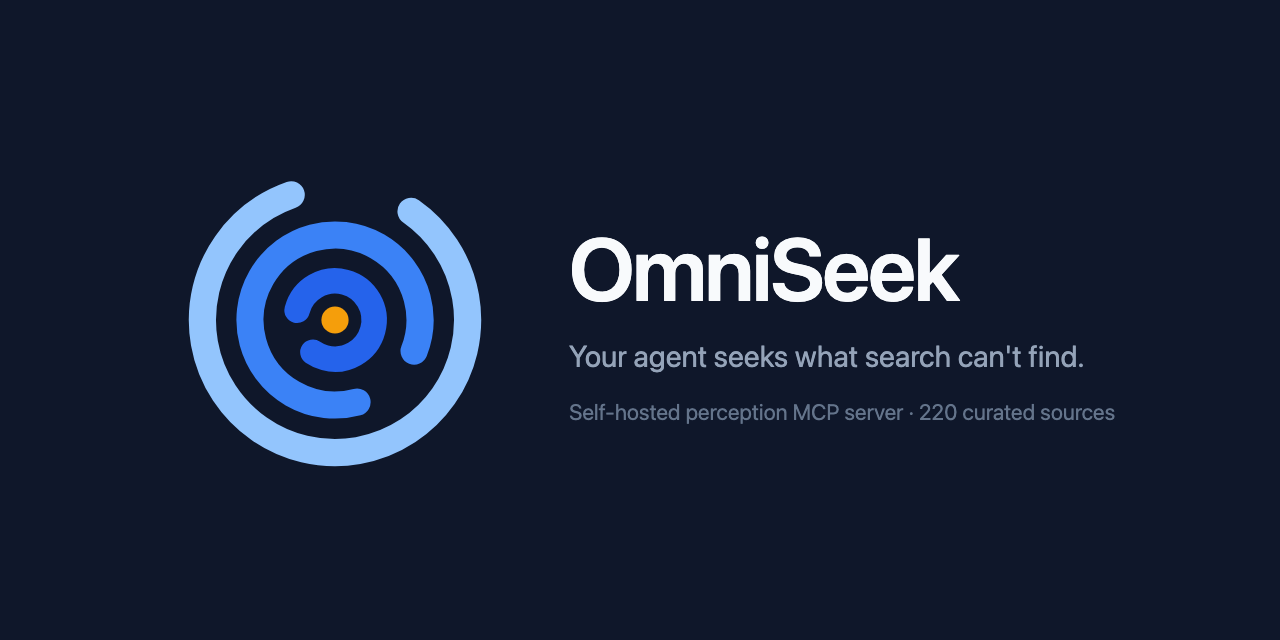
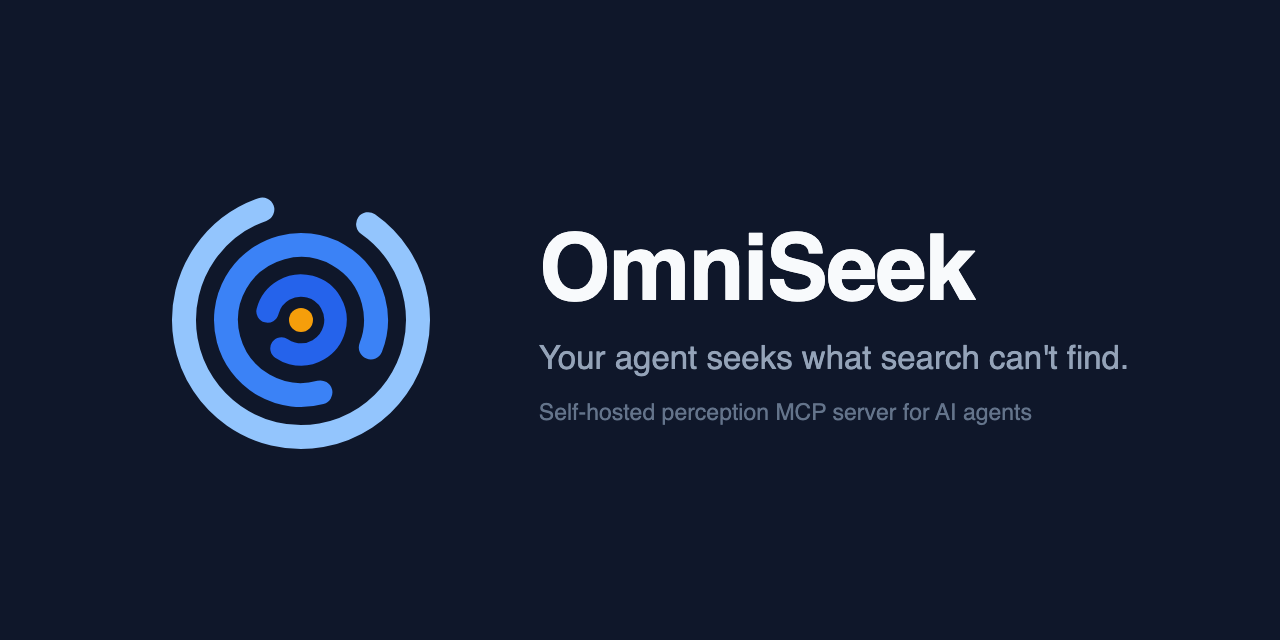
docs+assets: one real investigation everywhere, no literal source counts, decluttered root
The README demo card was a 1560x328 strip: at embed width its text was
unreadable, and its content (one search call) undersold the engine. It
is now a 760x652 card telling one REAL four-step investigation (search
-> the response's own excluded_relevant signpost -> walled drill ->
comment excavation -> vision on a post whose body lives in images),
every line quoted verbatim from a live session this same day.

docs/examples.md rebuilt around that same session: part 1 walks the
four walls (language, login, comment depth, pixels) with the actual
engagement numbers and two mermaid diagrams; part 2 covers hearing
(ASR, plus the honest empty-on-music case), people-mapping (Yejin
Choi's collaboration clusters; Yi R. Fung -> Heng Ji 54/93 joint works,
advisor inference from pure structure), watching (a sensor run live:
15 new -> 3 -> 0), and remembering (case study link).

Literal source counts are gone from every doc, asset, and both i18n
READMEs: the catalog grows and prunes through the curator pipeline, so
any hard number is born stale (the server already computes live counts
at startup). Prose now sells the mechanism.

Root decluttered: bootstrap.sh -> scripts/ (self-locating, runs from
any CWD), profile.example.json -> deploy/ (Dockerfile still lands it
at /app so the entrypoint is untouched); the shipped Claude Code skill
is now linked from the README instead of sitting undiscovered.

diff --git a/docs/examples.md b/docs/examples.md
@@ -1,94 +1,201 @@
 # Examples
 
-<sub>[OmniSeek](../README.md) · [Tools](tools.md) · [Configuration](configuration.md) · [FAQ](faq.md)</sub>
+<sub>[OmniSeek](../README.md)&nbsp;·&nbsp;[Tools](tools.md)&nbsp;·&nbsp;[Configuration](configuration.md)&nbsp;·&nbsp;[FAQ](faq.md)</sub>
 
-Five real queries, real outputs, from a live instance.
-
----
-
-## 1. One query, four kinds of sources
-
-```
-omniseek_search("is DeepSeek R1 actually open source")
-```
-
-Back came six results from four different worlds:
-
-- **Simon Willison's blog** broke down DeepSeek V4-Flash benchmarks vs pricing, with an Artificial Analysis scatter plot
-- **Two Bluesky posts** gave the practitioner take. Luke Steuber (90 likes): *"it's not actually open source ... Some folks built a decent equivalent with an open, ethical dataset."* Alexander Doria, more precisely: *"Open weights is probably the most straightforward. DeepSeek R1 meets [the Open Source Alliance definition] but not Llama."*
-- **Zvi on LessWrong** had a 78,000-character dissection of Kimi K3 that placed DeepSeek in the open-weights landscape
-- **Latent Space** covered the V4-Flash post-training update alongside their $70B pre-IPO fundraise
-- **GitHub Trending** surfaced an unofficial PyTorch reproduction
-
-One call. A technical blog, social-media debate with engagement numbers, a rationalist deep-dive, an industry newsletter, and a code repo. Google would have given you ten blue links to the same three news articles.
+Everything on this page came from one live OmniSeek instance and is quoted as returned: real queries, real outputs, real engagement numbers. Part 1 is a single session, shown in the order it happened.
 
 ---
 
-## 2. Same tool, Chinese
+## Part 1: one question, chased through four walls
+
+The agent gets a question any engineering team might ask this month:
+
+> *"Is Kimi K3 actually worth adopting for agentic coding?"*
+
+Plain search returns launch coverage and benchmark posts: the marketing surface. Between the agent and the real answer stand four walls: a **language** wall, a **login** wall, a **comment-depth** wall, and a **pixel** wall. Here is the same question with perception:
+
+```mermaid
+flowchart LR
+    Q(["Is Kimi K3 worth adopting<br/>for agentic coding?"]) --> S["1 · omniseek_search<br/>334 raw hits → 10 ranked,<br/>five kinds of source"]
+    S --> B["benchmarks · the paper<br/>· video in two languages"]
+    S -- "excluded_relevant:<br/>«xiaohongshu is login-walled;<br/>name it to drill»" --> D["2 · drill through the wall<br/>6 posts + engagement"]
+    D --> C["3 · omniseek_read<br/>62 comments → the fix<br/>nobody published"]
+    D --> V["4 · omniseek_view<br/>the post whose text<br/>lives in images"]
+    B --> A(["5 · a defensible answer,<br/>every line sourced"])
+    C --> A
+    V --> A
+```
+
+### 1. The sweep
 
 ```
-omniseek_search("大模型幻觉问题 最新解决方案")
+omniseek_search("Kimi K3 coding agent real-world experience")
 ```
 
-Three Bilibili videos came back, including one with 32,367 views and 76 comments: "什么是大模型幻觉？为什么会产生幻觉？" Each carries a `transcribable` flag, meaning you can pipe it straight to `omniseek_transcribe` and get the spoken content as text (see Example 4).
+One call fans out in parallel and deduplicates 334 raw hits into 10 ranked results, spanning five kinds of source at once:
 
-Also: two ByteDance Seed job postings. Their Dola team's JD says *"攻克模型幻觉问题，研究RAG检索增强生成与长文本处理技术"*. Job descriptions are often more honest than press releases about what a team is actually building.
+| World | What came back |
+|-------|----------------|
+| Benchmarks | together.ai ran 904 DeepSWE rollouts: GPT-5.6 Sol leads pass@1, K3 wins pass@4 at 2.8x the solves per dollar |
+| The paper | the Kimi K3 technical report on arXiv: 2.8T-parameter MoE, 104B activated, 1M-token context |
+| Video, Chinese | a hands-on Bilibili build tutorial, and GLM-5.3's counter-release twelve days later claiming the open-weights coding crown |
+| Video, English | two YouTube reviews asking "benchmark hype or real-world power?" |
+| Code | an unofficial PyTorch reproduction trending on GitHub |
+
+Note the query was English and half the best material is Chinese: the ranking is cross-lingual by default, so the agent never has to know which language the answer lives in.
+
+And then the part of the response that is not results. The sweep skips login-walled sources by default, and **says so, with the exact call to go deeper** (excerpt):
+
+```json
+{
+  "name": "xiaohongshu",
+  "reason": "login-walled (CDP browser, account-rate-sensitive)",
+  "why": "relevant but excluded; re-run naming it: sources=['xiaohongshu']"
+}
+```
+
+The response is a map, not just a list. The agent reads it and goes through the wall.
+
+### 2. Through the login wall
+
+```
+omniseek_search("Kimi K3", sources=["xiaohongshu"], raw=true)
+```
+
+This runs through the operator's own logged-in browser, on the operator's machine (the walled tier is **off** until you enable it with your own account: [how that works](walled-sources.md)). Six posts came back, dated within two weeks of the launch, each carrying the engagement signals a ranking can use:
+
+| Post | Likes | Comments | Saves |
+|------|------:|---------:|------:|
+| Kimi's own launch note: weights and infra tech both public | 784 | 78 | 126 |
+| "K3 is still not the strongest model" | 914 | 138 | 148 |
+| "I declare Kimi K3 has overtaken the American models" | 161 | 44 | 67 |
+| "The ¥99 plan, gone in 2 days 😅" | 130 | 64 | 114 |
+| "Kimi's pricing manners are ugly" | 171 | 99 | 30 |
+| "You people hyping Kimi: have you actually used it?" | 62 | **219** | 27 |
+
+Read the shape of that table: the announcements hold the likes, the complaints hold the comments. An agent that can see engagement already knows where the information is.
+
+### 3. Into the comments
+
+```
+omniseek_read("https://www.rednote.com/search_result/6a6215…")   # "gone in 2 days"
+```
+
+Full body plus 62 threaded comments. The post itself: a user who burned 80% of a month's quota in one day using K3 as a study-abroad advisor, while conceding the quality jump ("I ask it to re-check facts and logic afterwards; it mostly holds up. Hallucinations way down from 2.6"). Then, a few comments in, the thing no review article contains:
+
+> **XiaoTao.** (26 likes): "得用他的code额度 99套餐的话比kimi客户端省四倍 199省20倍 chat是最费token的" *(use the code-plan quota: roughly 4x cheaper than the chat client on the ¥99 tier, 20x on ¥199; chat burns the most tokens)*
+>
+> **Blake** (the author, replying): "亲测确实大大节省我的额度！感谢分享！！" *(tested it, massively cut my burn, thank you!)*
+
+Elsewhere in the thread, the failure mode with a price tag: "topped up ¥50 after my ¥199 ran out; gone in 20 minutes."
+
+The mitigation and the sharpest cost datapoint both live in a comment section that search engines do not index, under a post they could not open, in a language the asker may not read.
+
+### 4. The picture wall
+
+The most-argued post in the table ("have you actually used it?", 219 comments) has a body of four hashtags. The text **is the images**, and the read result says so in so many words:
+
+> 正文主要在 5 张图里 … 图片 URL 见 media 字段 *(the body is in the 5 images; URLs are in `media`; read them with vision)*
+
+```
+omniseek_view("https://sns-web-i10.rednotecdn.com/…, …", kind="images")
+```
+
+The agent reads the slides with its own vision. They turn out to be a paying user's breakdown (¥49 upgraded to ¥199, daily agentic-coding user, has tried Qwen 3.7, DeepSeek, GLM 5.2): the ¥49 tier cannot run K3 at all, ¥99 runs it with a truncated context window, only ¥199 is the full model; and self-deploying the open weights "starts at a few dozen high-end GPUs", so *open* is not a personal escape hatch. His closing verdict on coding agents: "它依旧不是唯一最优解" *(it is still not the single best answer)*: try pay-as-you-go first, subscribe to what you actually keep using.
+
+A text scraper gets four hashtags from this post. Vision gets the whole argument.
+
+### 5. What the agent now knows
+
+Assembled, with provenance and weights:
+
+- **The benchmark claim is real**: 904 independent rollouts, wins pass@4, 2.8x the solves per dollar (together.ai).
+- **The lived experience has one dominant complaint**: quota burn, across ~600 comments of walled threads. The 4-20x mitigation exists, but only as a comment under a complaint.
+- **The fine print was never in text**: which tier is actually K3 came from slides only vision could read.
+- **The clock is ticking**: twelve days after launch, GLM-5.3 shipped claiming the same crown, first covered in Chinese.
+
+That is not ten blue links. That is a position the agent can defend, with citations a human can check. To run investigations like this end to end, see [patterns](patterns.md), or install the ready-made Claude Code skill in [`skills/omniseek-investigate`](../skills/omniseek-investigate/SKILL.md).
 
 ---
 
-## 3. Behind the wall, into the comments
+## Part 2: the other senses
 
-```
-omniseek_read("https://www.xiaohongshu.com/...?xsec_token=...")
-```
-
-A xiaohongshu post titled "一些读博期间的强女心态", behind a login wall. OmniSeek navigated with the operator's own browser, on the operator's machine, and brought back the full text (9 mindset tips), 15 carousel images, and 23 comments with sub-reply threads.
-
-The most interesting part wasn't the post. It was this comment:
-
-> **蜜桃乌龙茶:** "不要觉得身边都是好人，第一感觉不好的人一定要警惕，保护好自己的学术成果。"
-
-Protect your academic work from theft. The author never mentioned this. A commenter did, and another confirmed it. Search engines don't index comment sections; even if they could reach this page, they'd return the title and move on.
-
----
-
-## 4. A video that was never written down
+### It hears: speech nobody wrote down
 
 ```
 omniseek_transcribe("https://www.bilibili.com/video/BV1Uy411i7eQ",
-                     start="0", duration="60", language="zh", segments=true)
+                    start="0", duration="60", language="zh")
 ```
 
-That 32,367-view video from Example 2. Locally, on the machine, no API key, 67 seconds:
+A hallucination-taxonomy explainer with 32,000 views. Transcribed locally (bilingual ASR, no cloud, no API key), about a minute of wall clock for a minute of speech:
 
-> 所以如果我们在微调过程没有控制好，其实也会增加大模型的幻觉。什么是大模型的幻觉，以及它为什么会产生。目前来看，大模型幻觉是阻碍大模型在产业界落地的一个非常重要的原因 ...那简单理解的话，幻觉其实对应到大模型的乱说。但这个乱说呢我们也可以把它分类成几大类型。那第一个分类我们可以把它归类为上下文的矛盾 ...
+> 所以如果我们在微调过程没有控制好，其实也会增加大模型的幻觉。……大模型幻觉是阻碍大模型在产业界落地的一个非常重要的原因……那简单理解的话，幻觉其实对应到大模型的乱说。但这个乱说呢我们也可以把它分类成几大类型。那第一个分类我们可以把它归类为上下文的矛盾……
 
-An expert explaining hallucination taxonomy to 32,000 people. Before this, that knowledge existed only as sound waves inside a video player.
+Before this call, that knowledge existed only as sound waves inside a video player. And the honest inverse: pointed at a launch video whose opening minutes turn out to be music over on-screen charts, it returns **zero characters**. Empty is an answer; invented text never is.
+
+### It maps people: a name becomes a structure
+
+```
+omniseek_coauthors(["Yejin Choi"])
+```
+
+From public citation data, one call: 535 works, 28,938 citations, current affiliation Stanford, and the collaboration structure of her latest 200 papers, with joint-paper counts on every edge:
+
+```mermaid
+graph TD
+    YC(("Yejin Choi")):::center
+    XL["Ximing Lu"]
+    LJ["Liwei Jiang"]
+    FB["Faeze Brahman"]
+    JH["Jack Hessel"]
+    RL["Ronan Le Bras"]
+    HH["Hannaneh Hajishirzi"]
+    YY["Youngjae Yu"]
+    NS["Noah A. Smith"]
+    YC ---|48| XL
+    YC ---|32| LJ
+    YC ---|31| FB
+    YC ---|29| JH
+    YC ---|23| RL
+    YC ---|22| HH
+    XL ---|22| LJ
+    XL ---|16| FB
+    LJ ---|11| FB
+    JH ---|13| YY
+    HH ---|11| NS
+    classDef center stroke-width:3px
+```
+
+The cross-edges are the point: Lu, Jiang, and Brahman are not three separate collaborators, they are one tight sub-group, visible only because the tool also counts how the collaborators work with **each other**.
+
+Now the same call on a junior researcher:
+
+```
+omniseek_coauthors(["Yi R. Fung"])
+```
+
+93 works. **54 of them are with Heng Ji**; the next collaborator counts 16. No academic database has an "advisor" field. The structure says it anyway, and your agent can read it in one call.
+
+### It watches: only what is new
+
+```
+omniseek_sensor(action="create", query="multi-agent LLM credit assignment")
+```
+
+A standing query with a memory. Run it three times:
+
+| Run | Result |
+|-----|--------|
+| 1 | 15 results, **15 new**: first sight of the field |
+| 2 | **3 new**: stragglers as the fan-out settles |
+| 3 | **0 new** |
+
+From here it runs on its own schedule and speaks only when something appears. The agent stops re-reading the same fifteen results every morning; "is there anything new on X?" becomes a fact the sensor answers, not a judgment the agent repeats.
+
+### It remembers: evidence that compounds
+
+Mirrored records deduplicated into distinct voices, conflicting citation counts surfaced instead of silently averaged, judgments recorded once and carried into every later session. That story deserves its own page: **[the case study](case-study.md)**.
 
 ---
 
-## 5. A name becomes a map
-
-```
-omniseek_coauthors(["Yejin Choi"], hints=["University of Washington NLP"])
-```
-
-Input: a name and a hint. Output: 535 papers, 28,938 citations, current institution (Stanford), and a collaboration network:
-
-| Collaborator | Joint papers |
-|-------------|-------------|
-| Ximing Lu | 48 |
-| Liwei Jiang | 32 |
-| Faeze Brahman | 31 |
-| Jack Hessel | 29 |
-| Ronan Le Bras | 23 |
-| Hannaneh Hajishirzi | 22 |
-| Maarten Sap | 19 |
-
-Plus who among these also works together: Ximing Lu and Liwei Jiang share 22 papers. Faeze Brahman and Ximing Lu share 16. The clusters inside the group become visible.
-
-An academic would spend an afternoon clicking through Google Scholar to assemble half of this. Your agent gets it in one call.
-
----
-
-*[Quick start](../README.md#quick-start)*
+<div align="center"><sub><a href="../README.md">← back to the README</a></sub></div>

diff --git a/README.md b/README.md
@@ -9,7 +9,7 @@
 
 **Your agent seeks what search can't find.**
 
-Self-hosted perception MCP server. 220 curated sources. One connection.
+Self-hosted perception MCP server. Hundreds of curated sources, one connection.
 
 [![CI](https://github.com/Battam1111/omniseek/actions/workflows/ci.yml/badge.svg)](https://github.com/Battam1111/omniseek/actions/workflows/ci.yml)
 &nbsp;[![License](https://img.shields.io/badge/License-Apache_2.0-3B82F6?style=flat-square)](./LICENSE)
@@ -31,16 +31,16 @@ OmniSeek reaches underneath: the podcast someone spoke into but nobody transcrib
 
 <div align="center">
   <picture>
-    <source media="(prefers-color-scheme: dark)" srcset="assets/demo-en-dark.png">
-    <img src="assets/demo-en-light.png" alt="A worked example: OmniSeek returns a transcribed talk, a video-frame reading, cross-language forum posts, and comment-section corrections that plain search misses." width="780">
+    <source media="(prefers-color-scheme: dark)" srcset="assets/demo-dark.png">
+    <img src="assets/demo-light.png" alt="A real investigation: one search fans out and reports which login-walled source holds more; the agent drills through the wall, reads the comment section, and reads the posts whose text lives inside images. Every line is from a live session." width="760">
   </picture>
 </div>
 
 It hears (local bilingual ASR, no cloud), sees (images and video frames, in-band), crosses languages (a Chinese query finds English results and vice versa), reads behind login walls (your credentials, your machine, off by default), and remembers (a persistent relation graph that gets richer with every query).
 
-220 curated sources across 32 domains and 8 language regions. Each earned its place by beating plain search.
+Every source in the catalog earned its place by beating plain search at something, from citation graphs and regulatory filings to login-walled forums and Chinese-language video. And the catalog is built to grow: a curator pipeline probes, judges, and admits new sources, and retires the ones that decay.
 
-**[Five real examples](docs/examples.md)** · **[A full case study](docs/case-study.md)**
+**[Worked examples, real outputs](docs/examples.md)** · **[A full case study](docs/case-study.md)**
 
 ---
 
@@ -63,7 +63,7 @@ The first `up` builds locally (dependencies + headless Chromium); later starts a
 
 ```bash
 python -m venv .venv && . .venv/bin/activate
-./bootstrap.sh
+scripts/bootstrap.sh
 python -m omniseek.serve_http
 ```
 
@@ -75,11 +75,11 @@ OmniSeek binds `127.0.0.1` and requires the bearer token on every request. Do no
 
 ## Tools
 
-One MCP connection, 18 tools. Start with `omniseek_search`; explore what's available with `omniseek_sources`.
+One MCP connection. Start with `omniseek_search`; explore what's available with `omniseek_sources`.
 
 | Tool | What it does |
 |------|-------------|
-| `omniseek_search` | Fan out across 220 sources, deduplicate, rank. Cross-lingual (semantic + lexical). |
+| `omniseek_search` | Fan out across the whole catalog, deduplicate, rank. Cross-lingual (semantic + lexical). |
 | `omniseek_read` | Normalize any URL or document (web page, PDF, arXiv) into clean text. |
 | `omniseek_view` | Read images, document figures, video frames with vision. |
 | `omniseek_transcribe` | Transcribe audio/video locally. Bilingual ASR, sliceable by timestamp. |
@@ -100,11 +100,13 @@ One MCP connection, 18 tools. Start with `omniseek_search`; explore what's avail
 
 Full reference in **[tools.md](docs/tools.md)** · **[FAQ](docs/faq.md)**
 
+Using Claude Code? [`skills/omniseek-investigate`](skills/omniseek-investigate/SKILL.md) ships the investigation methodology (sweep, zoom, structure) as a ready-made skill.
+
 ---
 
 ## Configure
 
-OmniSeek is **catalog-first**: with no config, every benign source is on and login-walled sources are off. Tune in one file, `~/.omniseek/profile.json` ([example](profile.example.json)):
+OmniSeek is **catalog-first**: with no config, every benign source is on and login-walled sources are off. Tune in one file, `~/.omniseek/profile.json` ([example](deploy/profile.example.json)):
 
 | Tier | Default |
 |------|---------|

diff --git a/CHANGELOG.md b/CHANGELOG.md
@@ -8,6 +8,25 @@ history and are kept as written.
 
 ## [Unreleased]
 
+### Fixed
+
+- Pinned `mcp[cli]>=1.0.0,<2`. mcp 2.0 (2026-08) removed `mcp.server.fastmcp`, so a FRESH
+  install (docker build, new venv) died at import while every existing venv kept working.
+  CI's docker-boot job caught it on the rename push; reproduced red and verified green in a
+  clean venv before pinning.
+
+### Changed
+
+- README and `docs/examples.md` rebuilt around one real investigation (four walls: language,
+  login, comment depth, pixels) with verbatim outputs, mermaid diagrams for the chase and the
+  coauthor graph, and a demo card re-rendered at a readable aspect ratio.
+- Literal source counts removed from all docs and assets. The catalog grows (and prunes)
+  through the curator pipeline, so any hard number is born stale; the server already computes
+  live counts at startup, and prose now sells the mechanism instead.
+- Root decluttered: `bootstrap.sh` -> `scripts/bootstrap.sh` (now runnable from any CWD),
+  `profile.example.json` -> `deploy/profile.example.json`, every reference updated. The
+  shipped Claude Code skill is linked from the README instead of sitting undiscovered.
+
 ### Changed (BREAKING: the project is renamed penumbra -> OmniSeek)
 
 - Every namespace follows the name: the package is `omniseek`, the tools are `omniseek_*`, the

diff --git a/docs/BRAND.md b/docs/BRAND.md
@@ -27,7 +27,7 @@ The blue ramp is depth: the further in, the deeper the shade. The single amber p
 
 **The deep O.** Three concentric rings, each with one opening, the openings rotated layer by layer: the way in exists, but it is not a straight line. That is seeking, as opposed to searching. The amber point at the center is the thing found at depth. Read as a whole, the rings and the point are also an iris and a pupil: the mark quietly remains an eye without saying so.
 
-The mark carries the sharpest claim (depth, the way in, the find). The name carries the breadth (Omni). Together the lockup says both; do not try to draw the 220 sources into the mark.
+The mark carries the sharpest claim (depth, the way in, the find). The name carries the breadth (Omni). Together the lockup says both; do not try to draw the whole catalog into the mark, and never put a source count in brand copy (the catalog grows; a number rots).
 
 ### Geometry (canonical, from `assets/logo.svg`)
 

diff --git a/.github/CONTRIBUTING.md b/.github/CONTRIBUTING.md
@@ -8,7 +8,7 @@ purpose (see below); the bar for fixing a decayed one is low (please do).
 
 ```bash
 python -m venv .venv && . .venv/bin/activate    # Windows: .venv\Scripts\activate
-./bootstrap.sh                                   # install + chromium + token + profile
+scripts/bootstrap.sh                             # install + chromium + token + profile
 python tests/smoke.py                            # must pass before you push
 python -m omniseek.serve_http                      # run it; curl http://127.0.0.1:8765/healthz
 ```

diff --git a/docs/configuration.md b/docs/configuration.md
@@ -11,7 +11,7 @@ off. None of this page is needed for a first run; it is the full reference for w
 ## The profile
 
 All configuration lives in one file, `~/.omniseek/profile.json`, seeded from
-[`profile.example.json`](../profile.example.json). It is a **sparse delta** over the shipped pack:
+[`profile.example.json`](../deploy/profile.example.json). It is a **sparse delta** over the shipped pack:
 write only what you change. Narrow or widen by source name, domain, region, and access tier.
 
 ```jsonc
